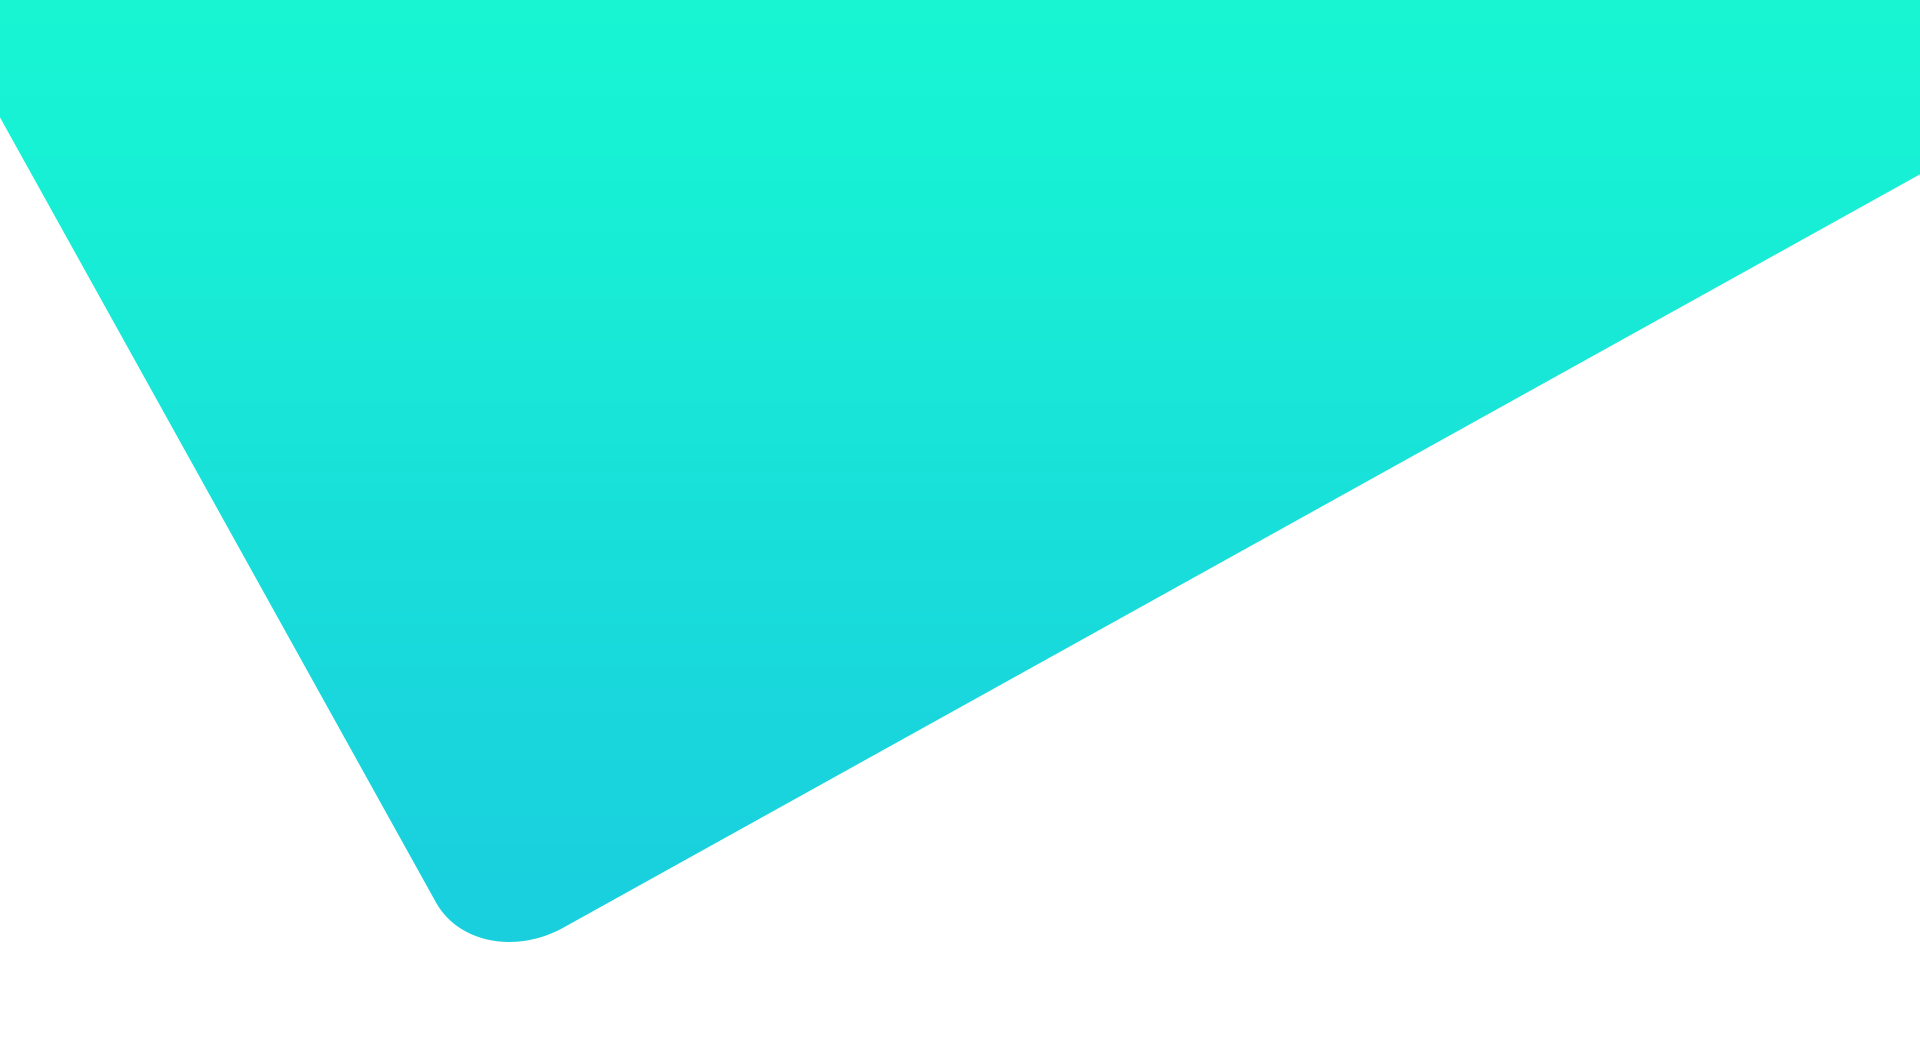
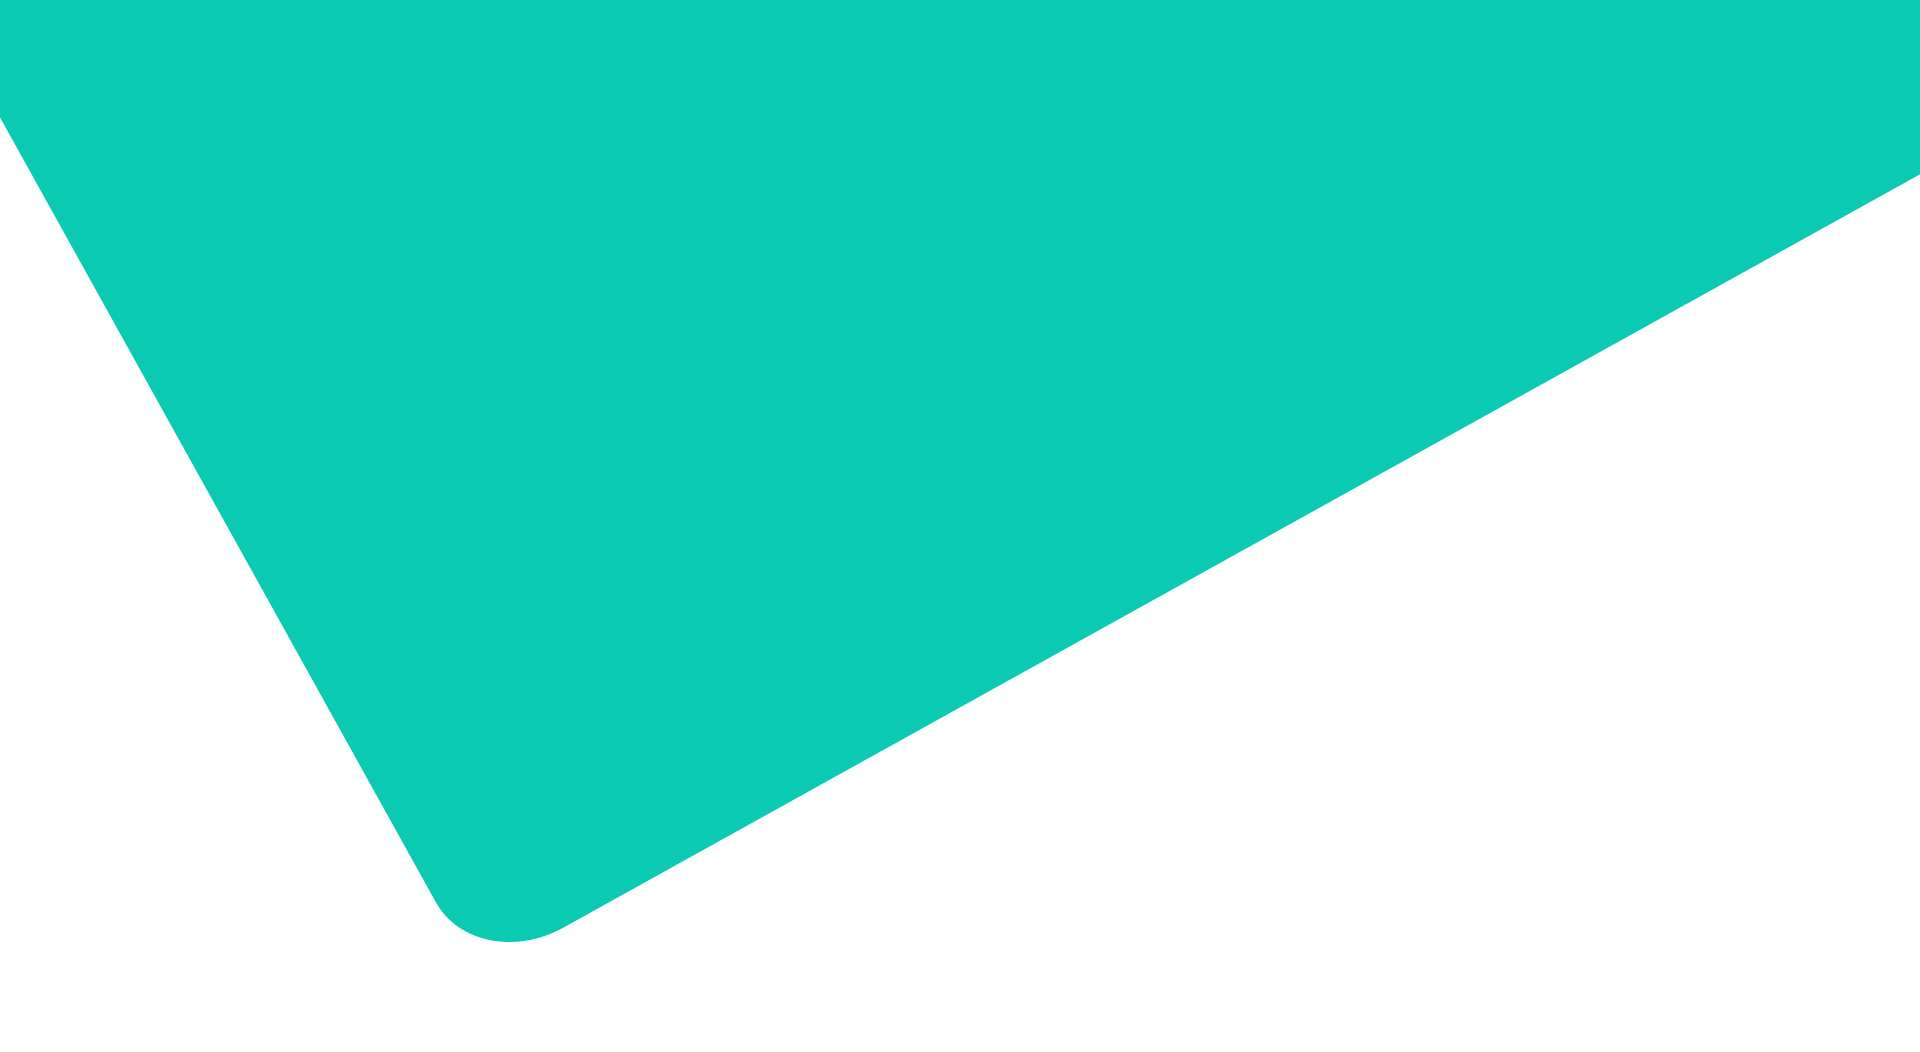
need some adjustment

diff --git a/css/app.scss b/css/app.scss
@@ -203,7 +203,7 @@ html, body {
 }
 
 .final_scan {
-    background-image: url(../img/final.jpg);
+    // background-image: url(../img/final.jpg);
     height: 550px;
 
     .f_wrapper {

diff --git a/css/app.css b/css/app.css
@@ -208,7 +208,6 @@ html, body {
 }
 
 .final_scan {
-  background-image: url(../img/final.jpg);
   height: 550px;
 }
 
